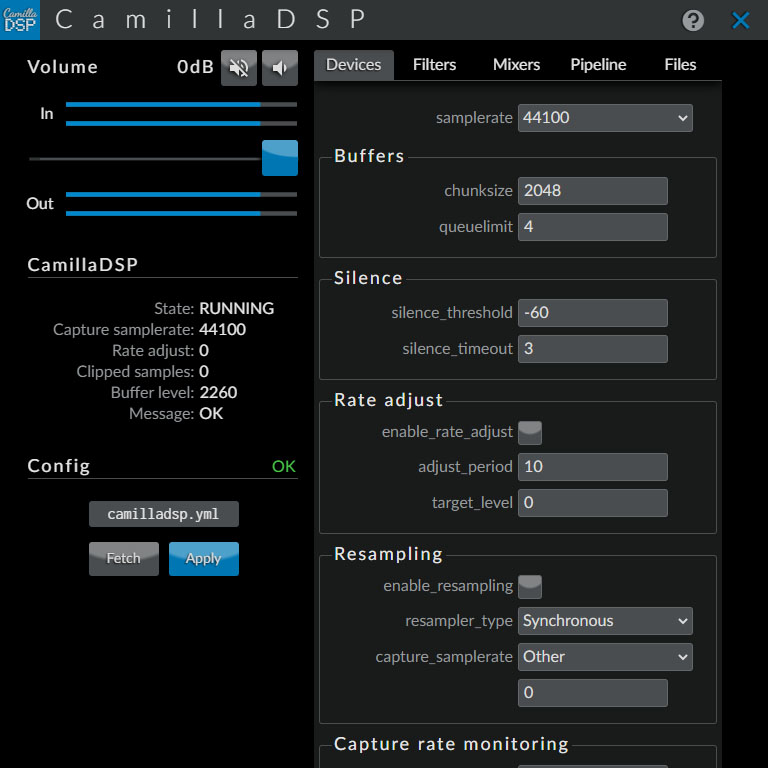
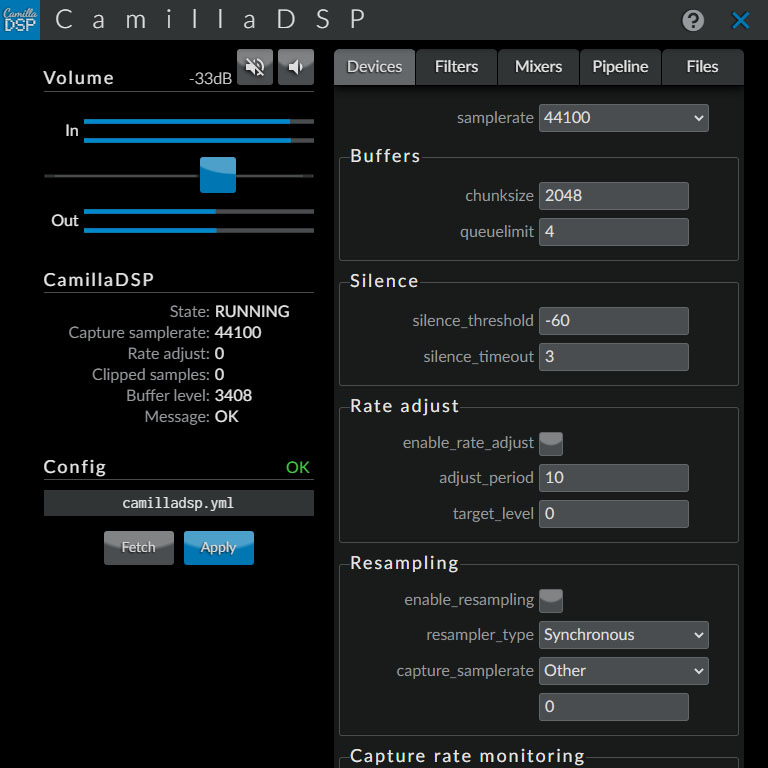
u

Changed region(s): [[0.0312, 0.0625, 0.9688, 1.0]]

diff --git a/srv/http/assets/css/camilladsp.css b/srv/http/assets/css/camilladsp.css
@@ -289,16 +289,16 @@ svg {
 	text-shadow: -1px 1px 2px #000000;
 }
 .button[data-tip]:not(.highlighted-button) {
-	background-color: var( --cg ) !important;
+	background-color: var( --cg );
 }
 /* volume + status ------------------------------------------------------------ */
 section.tabpanel {
+	position: fixed;
 	display: block;
 	float: left;
 	width: 270px !important;
-	margin-left: calc( 50% - 155px );
-	margin-bottom: 10px;
-	padding: 28px 10px 0 10px;
+	margin: auto;
+	padding: 17px 10px 0 10px;
 }
 section.tabpanel .box {
 	position: relative;
@@ -313,34 +313,23 @@ section.tabpanel legend .horizontally-spaced-content {
 }
 section .horizontally-spaced-content:first-of-type div:first-child {
 	width: 100% !important;
-	min-width: 112px;
+	font-size: 16px;
+	font-weight: 300;
+	letter-spacing: 0;
 }
 section.tabpanel .box:nth-last-of-type(3) legend .horizontally-spaced-content {
-	border: none !important;
-}
-section.tabpanel .box:nth-last-of-type(3) legend .horizontally-spaced-content:after {
-	content: '';
-	position: absolute;
-	display: block;
-	width: 100%;
-	border-bottom: 1px solid var( --cg );
-	top: 30px;
-	z-index: -1;
+	height: 24px;
 }
 section.tabpanel .smallbutton {
-	outline: 5px solid #000000;
-}
-section.tabpanel .split-20-80 {
-	width: 276px;
-	margin: 0 auto;
+	margin-top: -25px;
 }
 /* vu + volume bar  */
-.split-20-80 div:nth-child( 1 ) {
-	width: 28px;
+section.tabpanel .split-20-80 {
+	grid-template-columns: 13% 85%;
 	text-align: right;
 }
-.split-20-80 div:nth-child( 2 ) {
-	margin: 0 10px 0 -20px;
+section.tabpanel .split-20-80:first-of-type {
+	margin-top: 10px !important;
 }
 .rc-progress-line-path {
 	stroke-width: 2;
@@ -390,29 +379,38 @@ section:first-of-type .button-with-text:nth-of-type( 2 ) {
 	display: block;
 	width: 410px;
 	max-width: 100vw;
+	margin-left: 300px !important;
 	padding: 0;
 }
 .configtabs .tabpanel {
 	width: 400px !important;
 	min-height: calc( 100vh - 140px );
-	padding: 10px 5px 40px;
+	padding: 50px 5px 40px 5px;
 	background: var( --cgd );
 }
 .react-tabs__tab-list {
-	margin-block-end: 0;
-	border-bottom: 1px solid var( --cg );
+	position: fixed;
+	width: 410px;
+	margin-top: -6px;
+	padding-top: 10px;
+	background: #000000;
+	box-shadow: 0px 4px 10px #000000;
+	border: none;
 }
 .react-tabs__tab {
 	position: static;
 	width: calc( 100% / 5 );
 	padding: 0;
-	line-height: 30px;
+	line-height: 36px;
 	text-align: center;
 	text-shadow: -1px 1px 2px #000000;
+	background: var( --cga);
 	border: none;
+	border-radius: 5px 5px 0 0;
+	outline: 1px solid #000000;
 }
 .react-tabs__tab-list .react-tabs__tab--selected {
-	background: var( --cg );
+	background: var( --cgl );
 }
 .react-tabs__tab-list span {
 	display: none;
@@ -492,44 +490,30 @@ section:first-of-type .button-with-text:nth-of-type( 2 ) {
 	font-family: Inconsolata;
 }
 /* ---------------------------------------------------------------------------- */
-@media (min-width: 720px) {
-	section.tabpanel {
-		position: fixed;
-		margin: auto;
-	}
-	.configtabs { margin-left: 300px !important }
-	.react-tabs__tab-list {
-		position: fixed;
-		width: 410px;
-		margin-top: -6px;
-		padding-top: 10px;
-		background: #000000;
-		box-shadow: 0px 4px 10px #000000;
-	}
-	.configtabs .tabpanel {
-		padding: 50px 5px 40px 5px;
-	}
-}
 @media (max-width: 719px) {
+	.configapp {
+		padding: 22px 0;
+	}
 	#divhelp { margin: 0 20px }
 	section.tabpanel {
+		position: relative;
 		float: none;
 		min-width: 380px !important;
 		margin: auto;
+		padding: 0;
 	}
-	section.tabpanel { padding: 0 }
 	section.tabpanel legend .horizontally-spaced-content {
 		width: calc( 100vw - 50px );
 		max-width: 380px;
 	}
 	.configtabs .tabpanel {
-		width: 408px !important;
+		width: 400px !important;
 		max-width: 100%;
 		min-height: 0;
-		padding: 15px 0 5px;
+		padding: 15px 5px 5px 5px;
 	}
 	.configapp > :last-child {
-		margin-left: calc( 50% - 210px );
+		margin-left: calc( 50% - 210px ) !important;
 	}
 	.react-tabs__tab-list {
 		position: sticky;
